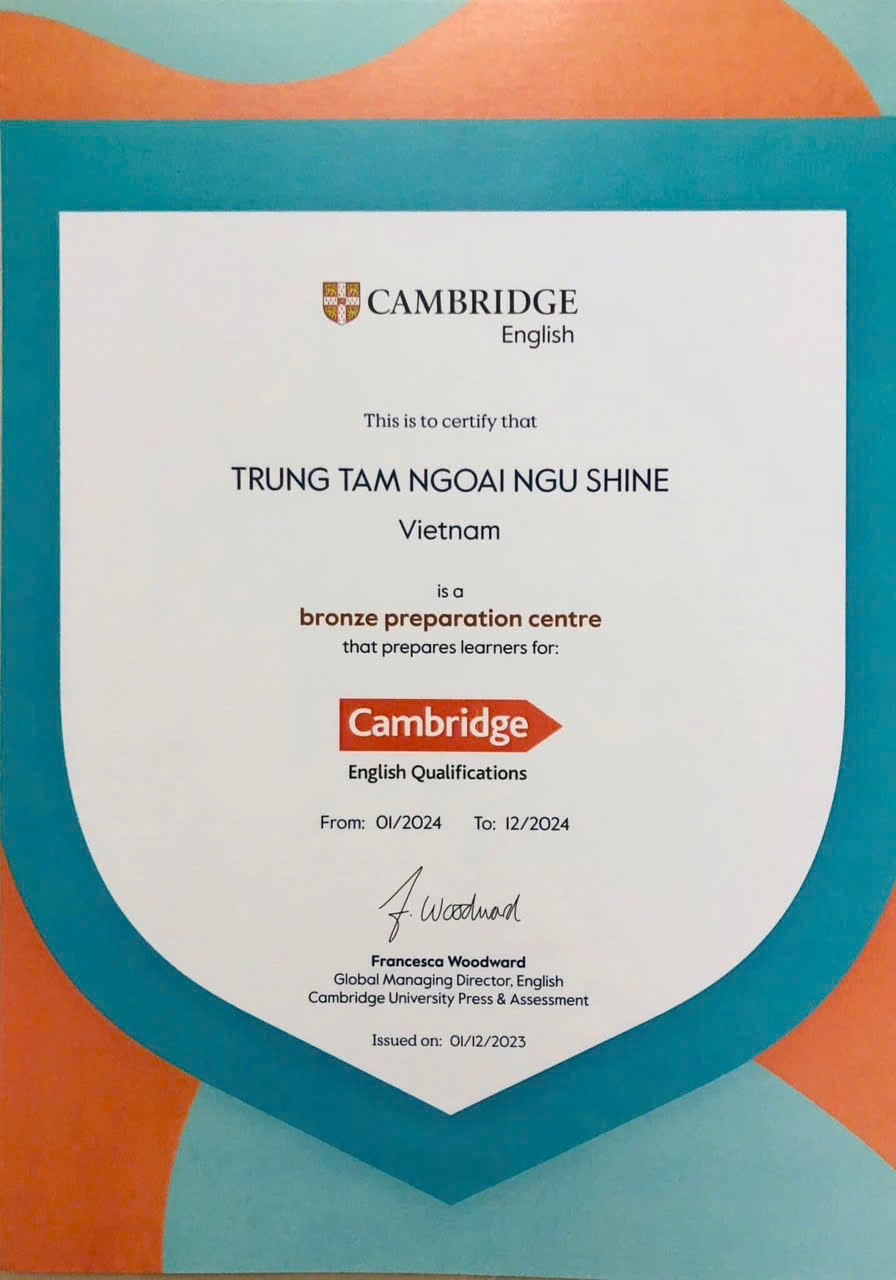
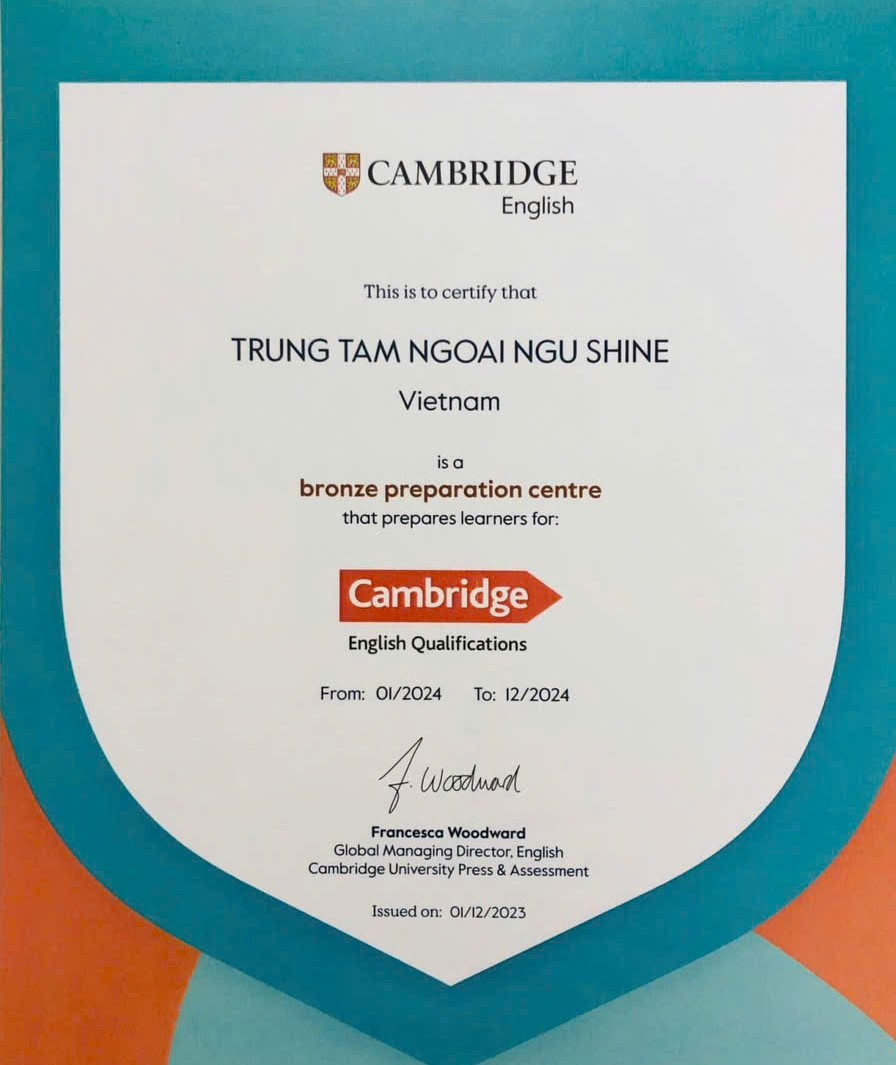
Added ScrollToTop function and update content in About
Make a component called ScrollToTop to auto scroll to top when switch page, put it into App.tsx
Make a new component section called certificate to show certification
update text content in About.tsx

diff --git a/pages/About.tsx b/pages/About.tsx
@@ -2,6 +2,9 @@
 import React from 'react';
 import { Sun, Target, Rocket, Heart, Award, Smile, ShieldCheck } from 'lucide-react';
 import StudentAchievements from '../components/StudentAchievements';
+import studentraisinghand from '@/media/img/gallery/studentraisinghand.jpg';
+import studentplayinggame from '@/media/img/gallery/studentplayinggame.jpg';
+import Certificate from '@/components/certificate';
 
 const About: React.FC = () => {
   return (
@@ -12,8 +15,8 @@ const About: React.FC = () => {
             <Sun className="w-96 h-96 animate-spin-slow" style={{ animationDuration: '60s' }} />
         </div>
         <div className="container mx-auto px-6 relative z-10 text-center">
-          <h1 className="text-5xl lg:text-6xl font-fredoka font-bold mb-6">The Happy Shine Story</h1>
-          <p className="text-xl text-red-100 max-w-3xl mx-auto">Founded on the belief that language learning should be as natural and joyful as a child's smile.</p>
+          <h1 className="text-5xl lg:text-6xl font-fredoka font-bold mb-6">Câu Chuyện của Happy Shine</h1>
+          <p className="text-xl text-red-100 max-w-3xl mx-auto">Happy Shine được thành lập với niềm tin rằng việc học ngôn ngữ nên tự nhiên và mang lại niềm vui, như chính nụ cười của trẻ.</p>
         </div>
       </section>
 
@@ -24,17 +27,18 @@ const About: React.FC = () => {
             <div>
               <div className="flex items-center space-x-4 mb-6">
                 <div className="h-1 w-12 bg-red-600"></div>
-                <span className="text-red-600 font-bold uppercase tracking-widest">Our DNA</span>
+                <span className="text-red-600 font-bold uppercase tracking-widest">Phương Châm</span>
               </div>
-              <h2 className="text-4xl font-fredoka font-bold text-slate-900 mb-8">Illuminating Minds Through Joyful Education</h2>
+              <h2 className="text-4xl font-fredoka font-bold text-slate-900 mb-1">Nuôi dưỡng tư duy của các bé</h2>
+              <h2 className="text-4xl font-fredoka font-bold text-slate-900 mb-8">qua việc học đầy niềm vui</h2>
               <div className="space-y-8">
                 <div className="flex gap-6">
                   <div className="bg-red-50 p-4 rounded-2xl h-fit">
                     <Target className="w-8 h-8 text-red-600" />
                   </div>
                   <div>
-                    <h3 className="text-2xl font-bold mb-2">Our Mission</h3>
-                    <p className="text-slate-600 text-lg">To create a world where language barriers are dissolved by the power of confidence and the warmth of a smile.</p>
+                    <h3 className="text-2xl font-bold mb-2">Sứ Mệnh Của Happy Shine</h3>
+                    <p className="text-slate-600 text-lg">Giới thiệu các bé tới môi trường học mà rào cản ngôn ngữ bị phá vỡ bởi những tiết học thú vị và ấm áp</p>
                   </div>
                 </div>
                 <div className="flex gap-6">
@@ -42,16 +46,16 @@ const About: React.FC = () => {
                     <Rocket className="w-8 h-8 text-red-600" />
                   </div>
                   <div>
-                    <h3 className="text-2xl font-bold mb-2">Our Vision</h3>
-                    <p className="text-slate-600 text-lg">To be the global leader in emotionally intelligent English education, preparing students for an interconnected world.</p>
+                    <h3 className="text-2xl font-bold mb-2">Tầm Nhìn Của Happy Shine</h3>
+                    <p className="text-slate-600 text-lg">Trở thành trung tâm tiếng Anh hàng đầu đồng hành cùng học sinh trên chặng đường chinh phục tiếng Anh.</p>
                   </div>
                 </div>
               </div>
             </div>
             <div className="relative">
               <div className="grid grid-cols-2 gap-4">
-                <img src="https://picsum.photos/400/500?random=10" className="rounded-3xl shadow-xl mt-12" alt="Center" />
-                <img src="https://picsum.photos/400/500?random=11" className="rounded-3xl shadow-xl" alt="Students" />
+                <img src={studentraisinghand} className="rounded-3xl shadow-xl mt-12" alt="Center" />
+                <img src={studentplayinggame} className="rounded-3xl shadow-xl" alt="Students" />
               </div>
               <div className="absolute top-1/2 left-1/2 transform -translate-x-1/2 -translate-y-1/2 bg-white p-6 rounded-full shadow-2xl">
                  <Smile className="w-16 h-16 text-red-600" />
@@ -65,7 +69,7 @@ const About: React.FC = () => {
       <section className="py-24 bg-slate-50">
         <div className="container mx-auto px-6">
           <div className="text-center mb-16">
-            <h2 className="text-4xl font-fredoka font-bold text-slate-900">A Decade of Shining</h2>
+            <h2 className="text-4xl font-fredoka font-bold text-slate-900">Hành Trình Vươn Lên Của Happy Shine</h2>
           </div>
           <div className="relative space-y-12">
             <div className="absolute left-1/2 top-0 bottom-0 w-1 bg-red-200 -translate-x-1/2 hidden md:block"></div>
@@ -102,10 +106,10 @@ const About: React.FC = () => {
         <div className="container mx-auto px-6">
           <div className="grid grid-cols-1 md:grid-cols-4 gap-8">
             {[
-              { icon: <Heart className="text-red-600" />, title: "Student-First", desc: "Every decision we make starts with the student's well-being." },
-              { icon: <ShieldCheck className="text-red-600" />, title: "Integrity", desc: "Honest feedback and transparent results for every learner." },
-              { icon: <Award className="text-red-600" />, title: "Excellence", desc: "Striving for the highest academic standards in everything we do." },
-              { icon: <Sun className="text-red-600" />, title: "Positivity", desc: "Maintaining an environment that encourages and inspires." },
+              { icon: <Heart className="text-red-600" />, title: "Student-First", desc: "Phát triển với các bé được đặt lên hàng đầu." },
+              { icon: <ShieldCheck className="text-red-600" />, title: "Minh Bạch", desc: "Minh bạch trong mọi quy trình giảng dạy và kết quả của các bé." },
+              { icon: <Award className="text-red-600" />, title: "Chất Lượng", desc: "Hướng các bé tới kết quả học tốt nhất có thể." },
+              { icon: <Sun className="text-red-600" />, title: "Tích Cực", desc: "Cho các bé môi trường học tập tích cực và gần gũi với thầy cô nhấ." },
             ].map((v, i) => (
               <div key={i} className="text-center p-8">
                 <div className="bg-red-50 w-20 h-20 rounded-full flex items-center justify-center mx-auto mb-6">
@@ -118,6 +122,10 @@ const About: React.FC = () => {
           </div>
         </div>
       </section>
+      {/* Values */}
+
+      {/* <Certificate /> */}
+      <Certificate/>
     </div>
   );
 };

diff --git a/components/certificate.tsx b/components/certificate.tsx
@@ -1,5 +1,6 @@
 import React from 'react';
 import { Award, ShieldCheck, BadgeCheck, FileText } from 'lucide-react';
+import bronzecerti from '@/media/img/gallery/bronzecambridgecerti.jpg';
 
 type CertificationItem = {
   title: string;
@@ -13,29 +14,19 @@ type CertificationItem = {
 
 const certifications: CertificationItem[] = [
   {
-    title: 'Authorized English Training Center',
+    title: 'Đạt chuẩn Trung Tâm Anh Ngữ Cambridge',
     description: 'Accredited for safe operations and quality teaching.',
     issuer: 'Local Education Authority',
     year: '2024',
-    Icon: ShieldCheck,
-  },
-  {
-    title: 'Teaching Excellence Program',
-    description: 'Recognizes strong curriculum and teacher growth.',
-    issuer: 'Academic Quality Council',
-    year: '2023',
-    Icon: BadgeCheck,
-  },
-  {
-    title: 'Learning Services Quality Mark',
-    description: 'Quality mark for learner-first service standards.',
-    issuer: 'Education Standards Board',
-    year: '2022',
+    image: bronzecerti,
+    imageAlt: 'Cambridge Accreditation Certificate',
     Icon: Award,
   },
 ];
 
 const Certificate: React.FC = () => {
+  const isSingleCard = certifications.length === 1;
+
   return (
     <section className="py-20 bg-white relative overflow-hidden">
       <div className="absolute top-0 left-0 w-full h-1 bg-gradient-to-r from-transparent via-red-100 to-transparent"></div>
@@ -44,30 +35,33 @@ const Certificate: React.FC = () => {
         <div className="text-center mb-12">
           <div className="inline-flex items-center gap-2 bg-red-50 text-red-600 px-4 py-1.5 rounded-full text-sm font-bold mb-4">
             <Award className="w-4 h-4" />
-            <span>Certification & Accreditation</span>
+            <span>Chứng Chỉ & Thành Tích</span>
           </div>
           <h2 className="text-3xl lg:text-4xl font-fredoka font-bold text-slate-900 mb-4">
-            Trusted standards for confident learning
+            Chương Trình Đạt Chuẩn Quốc Tế
           </h2>
           <p className="text-slate-600 max-w-2xl mx-auto text-sm md:text-base">
-            Our center follows recognized education standards to ensure safe, structured, and
-            measurable progress for every learner.
+            Happy Shine được Cambridge uy tín công nhận và không ngừng cải tiến chất lượng giảng dạy.
           </p>
         </div>
 
-        <div className="grid gap-6 lg:gap-8 md:grid-cols-2 lg:grid-cols-3">
+        <div
+          className={`grid gap-6 lg:gap-8 ${isSingleCard ? 'place-items-center' : 'md:grid-cols-2 lg:grid-cols-3'}`}
+        >
           {certifications.map((certification) => (
             <article
               key={`${certification.title}-${certification.year}`}
-              className="group bg-white rounded-[2rem] border border-slate-100 shadow-md hover:shadow-xl transition-all duration-500 overflow-hidden"
+              className={`group bg-white rounded-[2rem] border border-slate-100 shadow-md hover:shadow-xl transition-all duration-500 overflow-hidden ${
+                isSingleCard ? 'w-full max-w-2xl' : ''
+              }`}
             >
               <div className="p-6 md:p-7">
-                <div className="h-40 md:h-44 w-full rounded-2xl border border-slate-100 bg-gradient-to-br from-slate-50 via-white to-red-50 overflow-hidden flex items-center justify-center">
+                <div className="h-80 md:h-96 w-full rounded-2xl border border-slate-100 bg-gradient-to-br from-slate-50 via-white to-red-50 overflow-hidden flex items-center justify-center">
                   {certification.image ? (
                     <img
                       src={certification.image}
                       alt={certification.imageAlt ?? certification.title}
-                      className="h-full w-full object-cover"
+                      className="h-full w-full max-w-[92%] object-contain"
                     />
                   ) : (
                     <div className="flex flex-col items-center text-slate-400">

diff --git a/App.tsx b/App.tsx
@@ -10,10 +10,12 @@ import LegalPaper from './pages/LegalPaper';
 import Enroll from './pages/Enroll';
 import Navbar from './components/Navbar';
 import Footer from './components/Footer';
+import ScrollToTop from './components/ScrollToTop';
 
 const App: React.FC = () => {
   return (
     <Router>
+      <ScrollToTop />
       <div className="flex flex-col min-h-screen">
         <Navbar />
         {/* pt-20 added to offset the fixed solid navbar (approx 80px) */}

diff --git a/components/ScrollToTop.tsx b/components/ScrollToTop.tsx
@@ -1,0 +1,14 @@
+import React, { useEffect } from 'react';
+import { useLocation } from 'react-router-dom';
+
+const ScrollToTop: React.FC = () => {
+  const { pathname } = useLocation();
+
+  useEffect(() => {
+    window.scrollTo({ top: 0, left: 0, behavior: 'smooth' });
+  }, [pathname]);
+
+  return null;
+};
+
+export default ScrollToTop;
